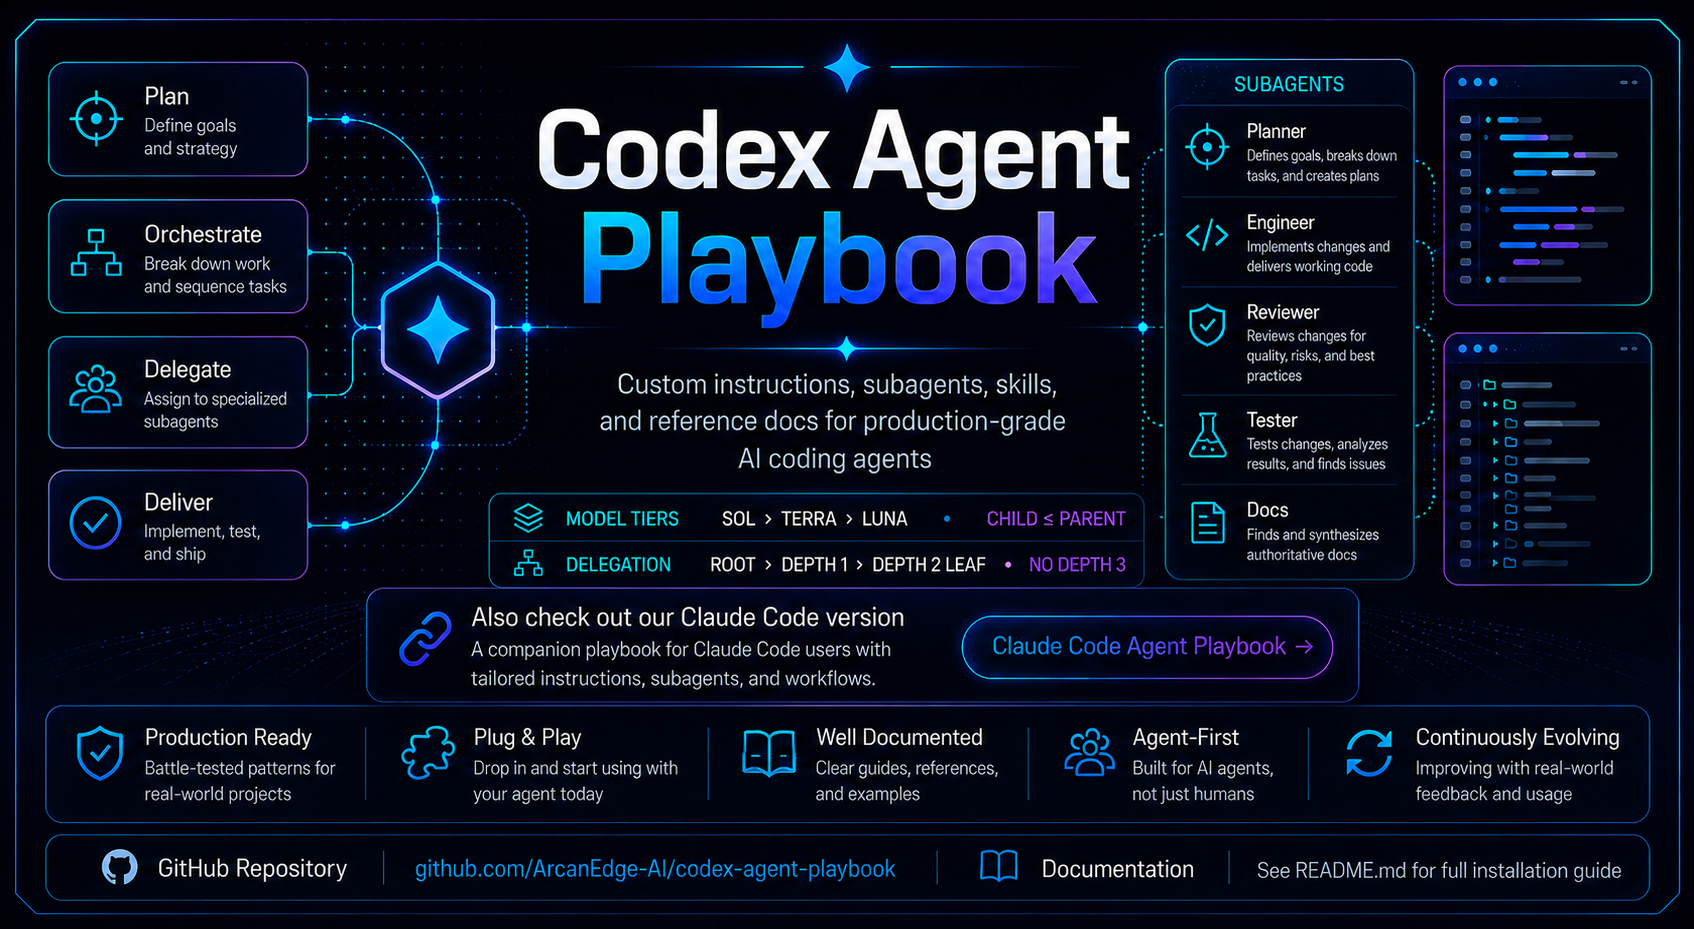
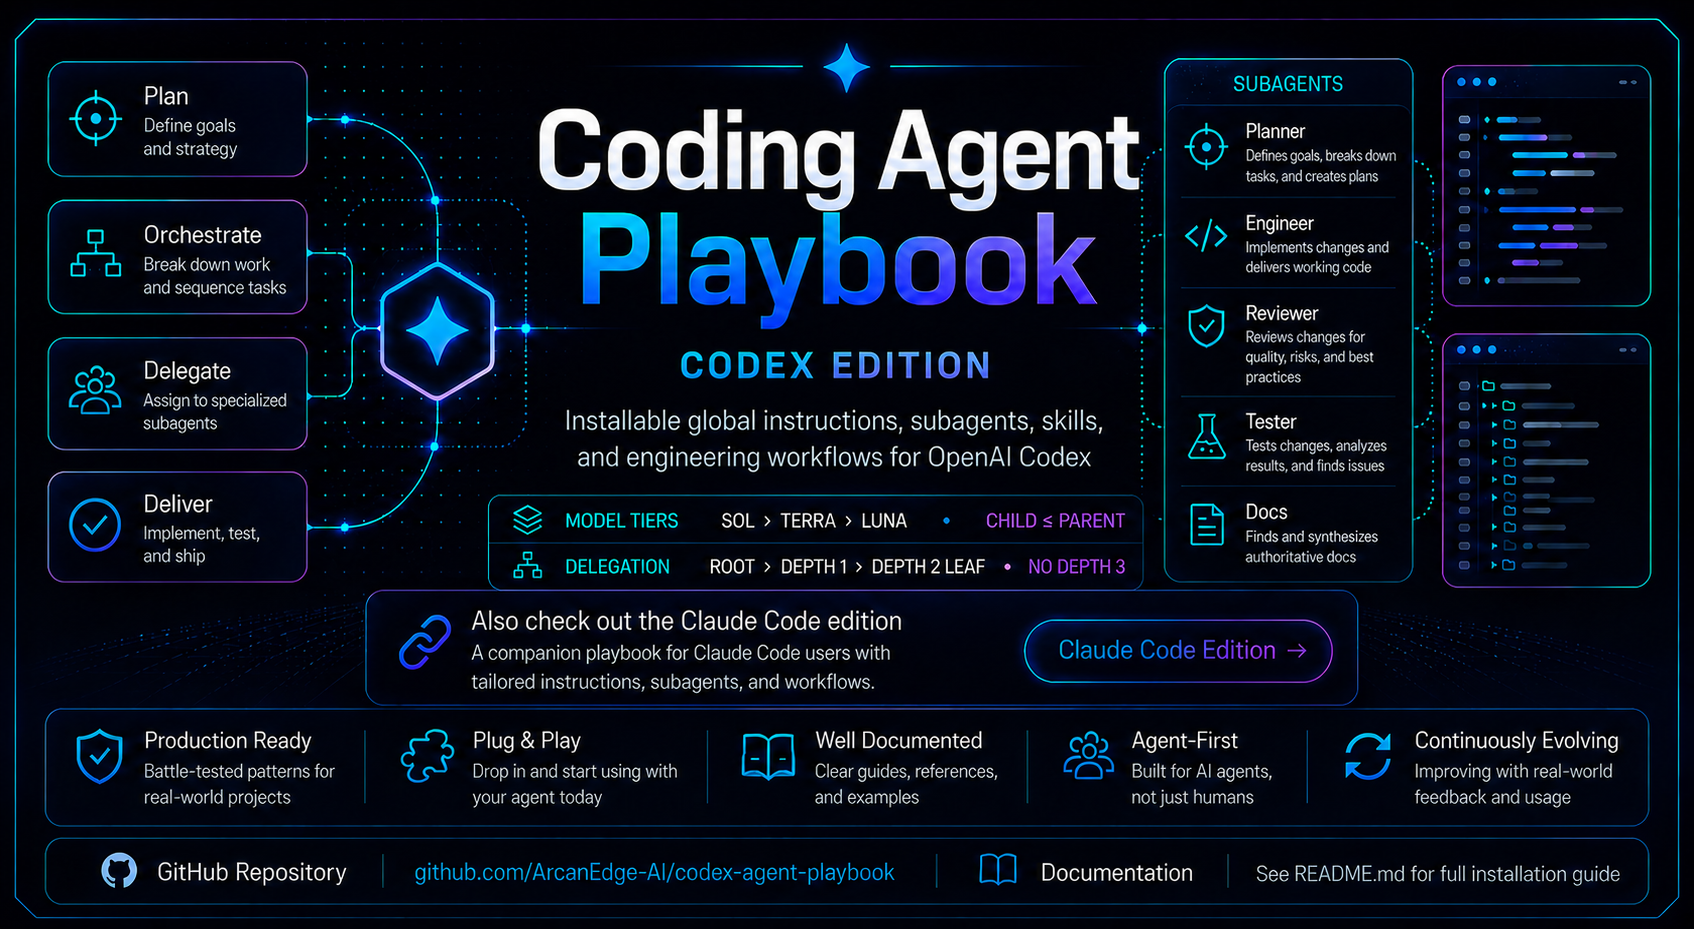
docs: establish Coding Agent Playbook editions

diff --git a/README.md b/README.md
@@ -1,11 +1,11 @@
 <p align="center">
-  <img src="./assets/codex-agent-playbook-hero.png" alt="Codex Agent Playbook hero banner" width="100%" />
+  <img src="./assets/codex-agent-playbook-hero.png" alt="Coding Agent Playbook — Codex Edition hero banner" width="100%" />
 </p>
 
-<h1 align="center">Codex Agent Playbook</h1>
+<h1 align="center">Coding Agent Playbook — Codex Edition</h1>
 
 <p align="center">
-  <strong>Custom instructions, subagents, skills, and reference docs for production-grade AI coding agents.</strong>
+  <strong>Installable, managed global instructions, subagents, skills, and engineering workflows for OpenAI Codex.</strong>
 </p>
 
 <p align="center">
@@ -15,7 +15,7 @@
 <p align="center">
   <a href="#install-with-one-prompt">Install</a> ·
   <a href="#quick-start">Quick Start</a> ·
-  <a href="#related-playbooks">Related Playbooks</a> ·
+  <a href="#harness-editions">Harness Editions</a> ·
   <a href="#why-this-exists">Why This Exists</a> ·
   <a href="#whats-inside">What's Inside</a> ·
   <a href="#subagent-model">Subagent Model</a> ·
@@ -26,18 +26,18 @@
 </p>
 
 <p align="center">
-  <img src="https://img.shields.io/badge/Codex-Playbook-6E7BFF" alt="Codex Playbook" />
+  <img src="https://img.shields.io/badge/Codex-Edition-6E7BFF" alt="Codex Edition" />
   <img src="https://img.shields.io/badge/Subagents-Orchestrated-00C2FF" alt="Subagents Orchestrated" />
   <img src="https://img.shields.io/badge/Threads-Coordinated-4ECDC4" alt="Threads Coordinated" />
   <img src="https://img.shields.io/badge/Instructions-Tool--Agnostic-8A5CFF" alt="Instructions Tool Agnostic" />
-  <a href="https://github.com/ArcanEdge-AI/claude-code-agent-playbook"><img src="https://img.shields.io/badge/Claude%20Code-Companion-D97706" alt="Claude Code companion playbook" /></a>
+  <a href="https://github.com/ArcanEdge-AI/claude-code-agent-playbook"><img src="https://img.shields.io/badge/Claude%20Code-Edition-D97706" alt="Claude Code Edition" /></a>
   <img src="https://img.shields.io/badge/License-MIT-2ECC71" alt="MIT License" />
   <img src="https://img.shields.io/badge/Status-Active-2ECC71" alt="Status Active" />
 </p>
 
 <p align="center">
   <strong>Using Claude Code instead?</strong>
-  <a href="https://github.com/ArcanEdge-AI/claude-code-agent-playbook">Open the Claude Code Agent Playbook</a>.
+  <a href="https://github.com/ArcanEdge-AI/claude-code-agent-playbook">Open the Claude Code edition</a>.
 </p>
 
 ---
@@ -122,14 +122,14 @@ Then fill in the actual build commands, test commands, architecture rules, gener
 
 ---
 
-## Related Playbooks
+## Harness Editions
 
-This repository is the Codex-focused version of the playbook.
+Coding Agent Playbook ships as separate harness-native editions. This repository is the Codex edition.
 
-| Agent environment | Repository | Use when |
+| Edition | Repository | Use when |
 | --- | --- | --- |
 | Codex | `ArcanEdge-AI/codex-agent-playbook` | You want global Codex custom instructions, reference docs, skills, and subagent definitions. |
-| Claude Code | [`ArcanEdge-AI/claude-code-agent-playbook`](https://github.com/ArcanEdge-AI/claude-code-agent-playbook) | You want the companion setup tuned for Claude Code. |
+| Claude Code | [`ArcanEdge-AI/claude-code-agent-playbook`](https://github.com/ArcanEdge-AI/claude-code-agent-playbook) | You want the harness-native edition tuned for Claude Code. |
 
 The philosophy is shared across both: the main agent acts as the senior engineer/orchestrator, subagents perform bounded evidence-backed execution, independent project threads are coordinated explicitly, and final decisions stay with the main agent.
 

diff --git a/INSTALL.md b/INSTALL.md
@@ -1,4 +1,4 @@
-# Install Codex Agent Playbook
+# Install Coding Agent Playbook — Codex Edition
 
 This file is written for both humans and AI coding agents.
 
@@ -72,7 +72,7 @@ Full install:
 - copies custom agent definitions into `$CODEX_HOME/agents/`
 - copies skills into `$HOME/.agents/skills/`
 
-The global instruction body is always installed inside one clearly marked Codex Agent Playbook section. Existing content outside that section is preserved. Re-running a full install replaces the existing marked section instead of appending a duplicate.
+The global instruction body is always installed inside one clearly marked Coding Agent Playbook — Codex Edition section. Existing content outside that section is preserved. Re-running a full install replaces the existing marked section instead of appending a duplicate.
 
 After a successful run, the installer writes `$CODEX_HOME/.codex-agent-playbook-managed-files.tsv` with every managed support-file path and source SHA-256. On later runs, files removed from the repository are backed up and retired only when they still match the previously installed hash. Customized formerly managed files are preserved and reported. Files that were never recorded as playbook-managed are never removed.
 
@@ -199,4 +199,4 @@ $HOME/.agents/skills/reference-doc-routing/
 $HOME/.agents/skills/senior-code-review/
 ```
 
-If you used full install and want to remove the global instructions, edit `$CODEX_HOME/AGENTS.md` and remove the section between the Codex Agent Playbook start/end markers.
+If you used full install and want to remove the global instructions, edit `$CODEX_HOME/AGENTS.md` and remove the section between the Coding Agent Playbook — Codex Edition start/end markers.

diff --git a/CONTRIBUTING.md b/CONTRIBUTING.md
@@ -1,6 +1,6 @@
 # Contributing
 
-Thanks for helping improve Codex Agent Playbook.
+Thanks for helping improve Coding Agent Playbook — Codex Edition.
 
 This repository is intentionally public and reusable. Contributions should make the playbook clearer, more durable, and less tool-specific.
 
